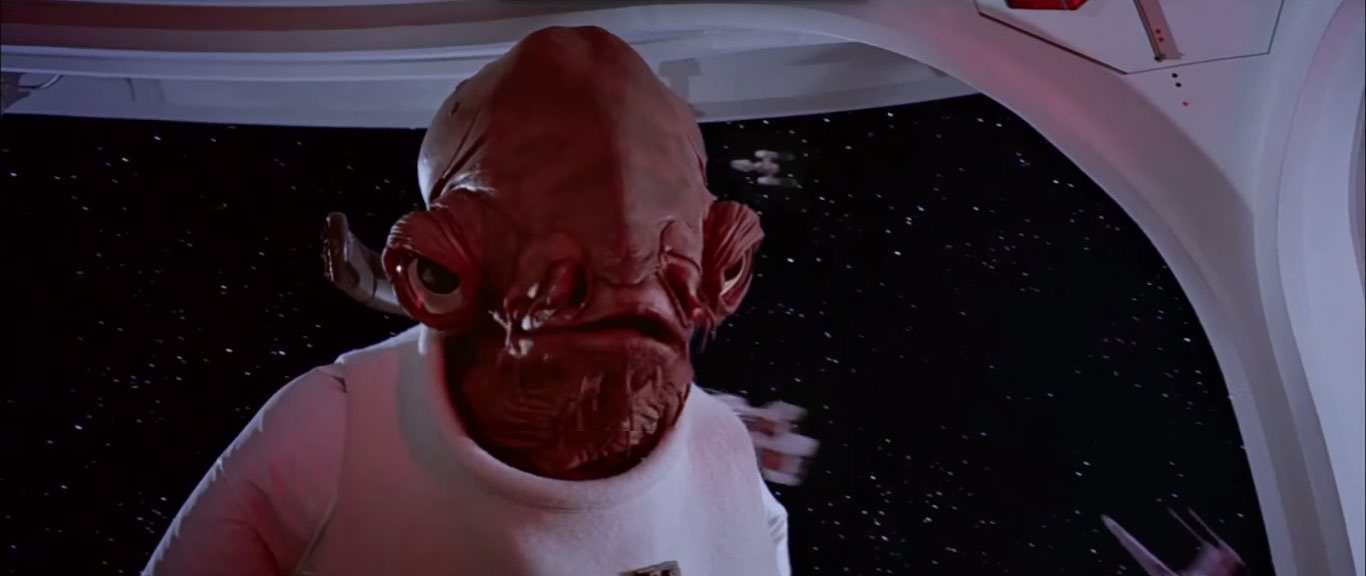
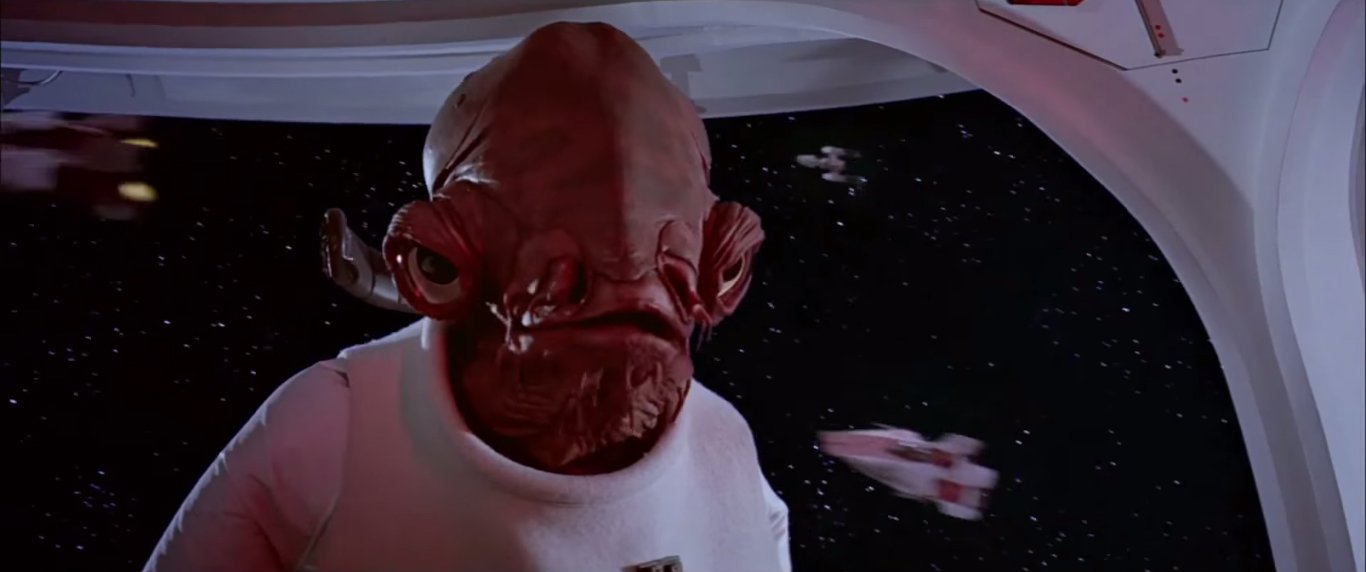
Animation is ackbared

diff --git a/index.html b/index.html
@@ -3,7 +3,7 @@
     <html>
       <head>
         <title>Media Example</title>
-		<script type="text/javascript" src="js/jquery-1.11.0.min.js"></script>
+		<script type="text/javascript" src="js/jquery-2.1.0.js"></script>
 		<script type="text/javascript" src="js/kaelin.js"></script>
         <script type="text/javascript" charset="utf-8" src="cordova.js"></script>
 		<script src="js/jquery-2.1.0.js"></script>
@@ -135,10 +135,10 @@
         	
         	<div id="imagefive"></div>
         	
-        	<div id="imageclosed">
+        	<div onclick="test();" id="imageclosed">
         		<img src="images/ackbar.jpg">
         	</div>
-        	<div id="imageopen">
+        	 <div onclick="test();" id="imageopen">
         		<img src="images/ackbar_mouth.png">
         	</div>
       </body>

diff --git a/js/kaelin.js b/js/kaelin.js
@@ -2,12 +2,16 @@ function test() {
 
 setTimeout(function () {
  $("#imageone").css("visibility","hidden");
+ $("#imageopen").css("visibility","visible"); 
 	setTimeout(function () {
 	 $("#imagetwo").css("visibility","hidden");
+	 $("#imageopen").css("visibility","hidden");
 			setTimeout(function () {
 			 $("#imagethree").css("visibility","hidden");
+			 $("#imageopen").css("visibility","visible");
 				setTimeout(function () {
 				$("#imagefour").css("visibility","hidden");
+				$("#imageopen").css("visibility","hidden");
 					setTimeout(function () {
 						$("#imageone").css("visibility","visible");
 						$("#imagetwo").css("visibility","visible");

diff --git a/indexcss.css b/indexcss.css
@@ -72,9 +72,10 @@ z-index:3;
 width:320px;
 height:480px;
 position:absolute;
-
+visibility:hidden;
 z-index:2;
 /*overflow:hidden;*/
+
 left:0px;
 right:100px;
 top:100px;
@@ -90,7 +91,7 @@ margin-left:50px;
 width:320px;
 height:480px;
 position:absolute;
-background-color:black;
+
 z-index:1;
 /*overflow:hidden;*/
 left:0px;
